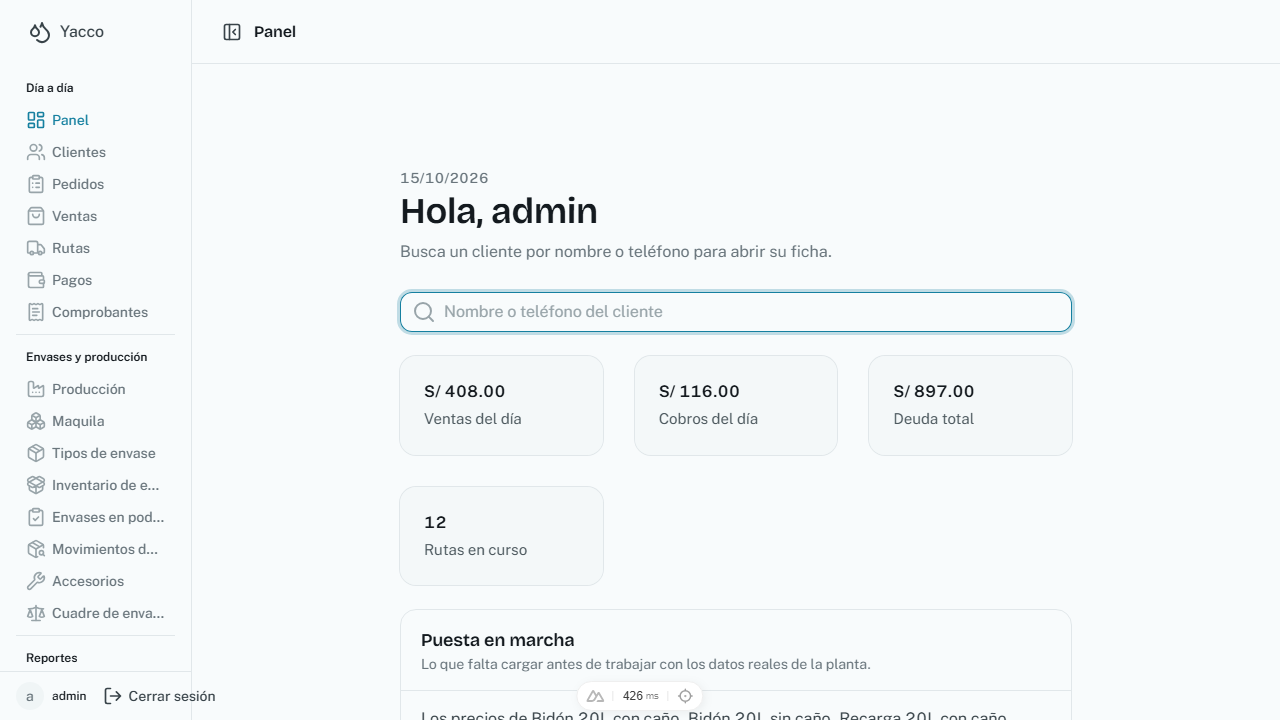
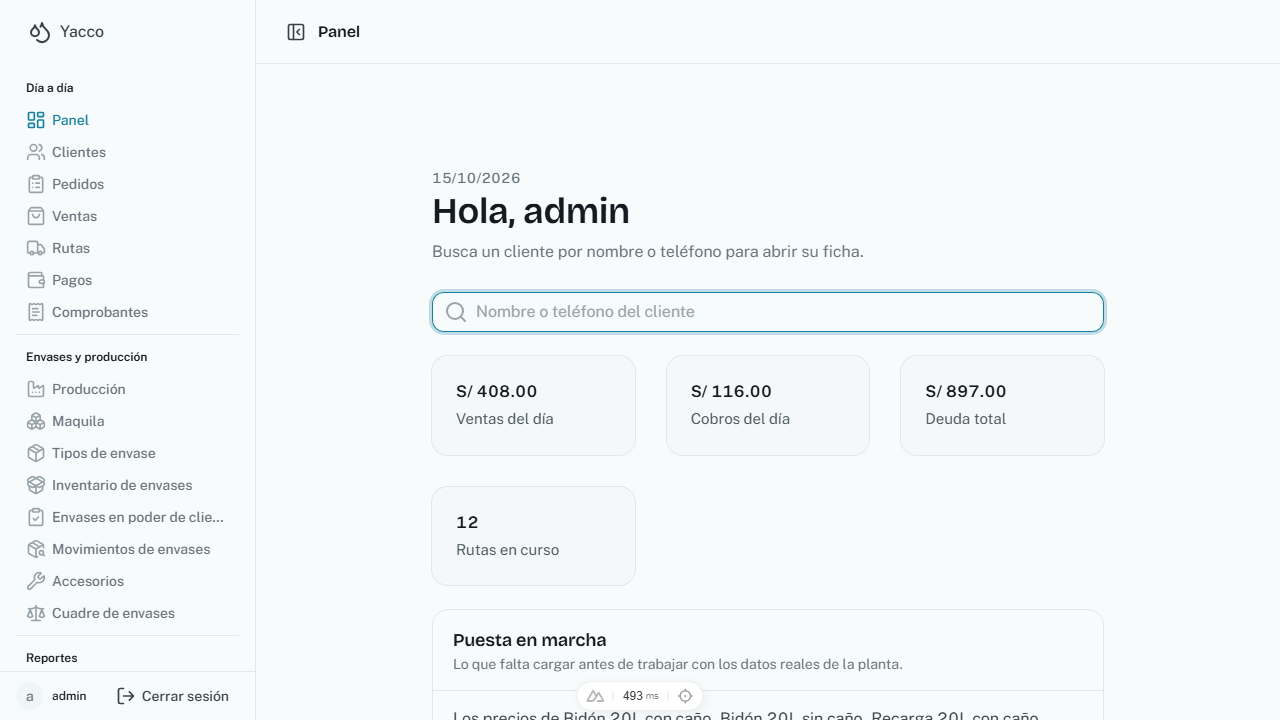
test(web): capture responsive shell evidence

diff --git a/.relay/RELEVO.md b/.relay/RELEVO.md
@@ -3,6 +3,6 @@
 status: in-progress
 item: Fase 3 — 9. Panel por rol y solo Nuxt UI (goal en .relay/goals/fase3-9-nuxt-ui-y-panel.md)
 branch: refactor/nuxt-ui-layout-navigation
-last-step: Hallazgo de overflow corregido con tema UUser y defaultSize nativo del sidebar; e2e responsive verde (2/2) para nombre largo, contraer/expandir y drawer móvil navegable.
-next-step: Capturar y revisar el sidebar contraído y el drawer móvil antes/después; luego repetir checks afectados y devolver el diff a reviewer.
-updated: 2026-10-15T11:50:00-05:00 por Codex (relevo)
+last-step: Evidencia responsive antes/después capturada y revisada para sidebar contraído y drawer móvil; las cinco capturas expandidas se regeneraron con el ancho final del sidebar.
+next-step: Repetir pruebas del shell, typecheck, lint y build; devolver el diff final a reviewer y, si aprueba, preparar el PR con evidencia y clases retenidas.
+updated: 2026-10-15T11:57:00-05:00 por Codex (relevo)
